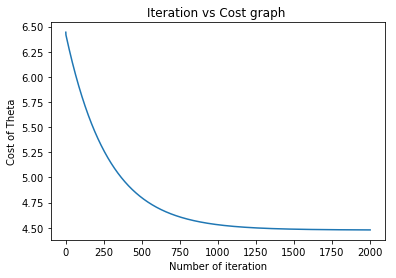
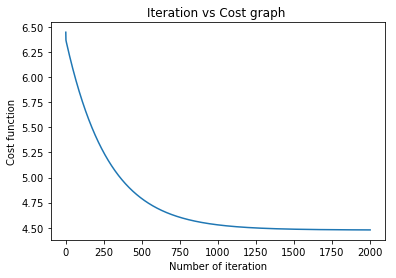
plot label 'cost function' added

diff --git a/README.md b/README.md
@@ -49,7 +49,7 @@ plt.show()
 ```
 
 
-![png](resources/output_5_0.png)
+![png](output_5_0.png)
 
 
 
@@ -102,7 +102,7 @@ def gradientDescent(X_bias,Y,Theta,iterations,alpha):
     plt.plot(np.linspace(1,iterations,iterations,endpoint=True),cost_log)
     plt.title("Iteration vs Cost graph ")
     plt.xlabel("Number of iteration")
-    plt.ylabel("Cost of Theta")
+    plt.ylabel("Cost function")
     plt.show()
     return Theta
 ```
@@ -115,7 +115,7 @@ Theta = gradientDescent(X_bias,Y,Theta,iterations,alpha)
 ```
 
 
-![png](resources/output_9_0.png)
+![png](output_9_0.png)
 
 
 
@@ -129,8 +129,8 @@ print 'profit from 35000 people city is ',hypothesis[1,0]*10000,'$'
 
 ```
 
-    profit from 35000 people city is  3612.09960774 $
-    profit from 35000 people city is  50829.1287549 $
+    profit from 35000 people city is  3601.80572428 $
+    profit from 35000 people city is  50825.2145934 $
     
 
 
@@ -146,5 +146,5 @@ plt.show()
 ```
 
 
-![png](resources/output_11_0.png)
+![png](output_11_0.png)
 
